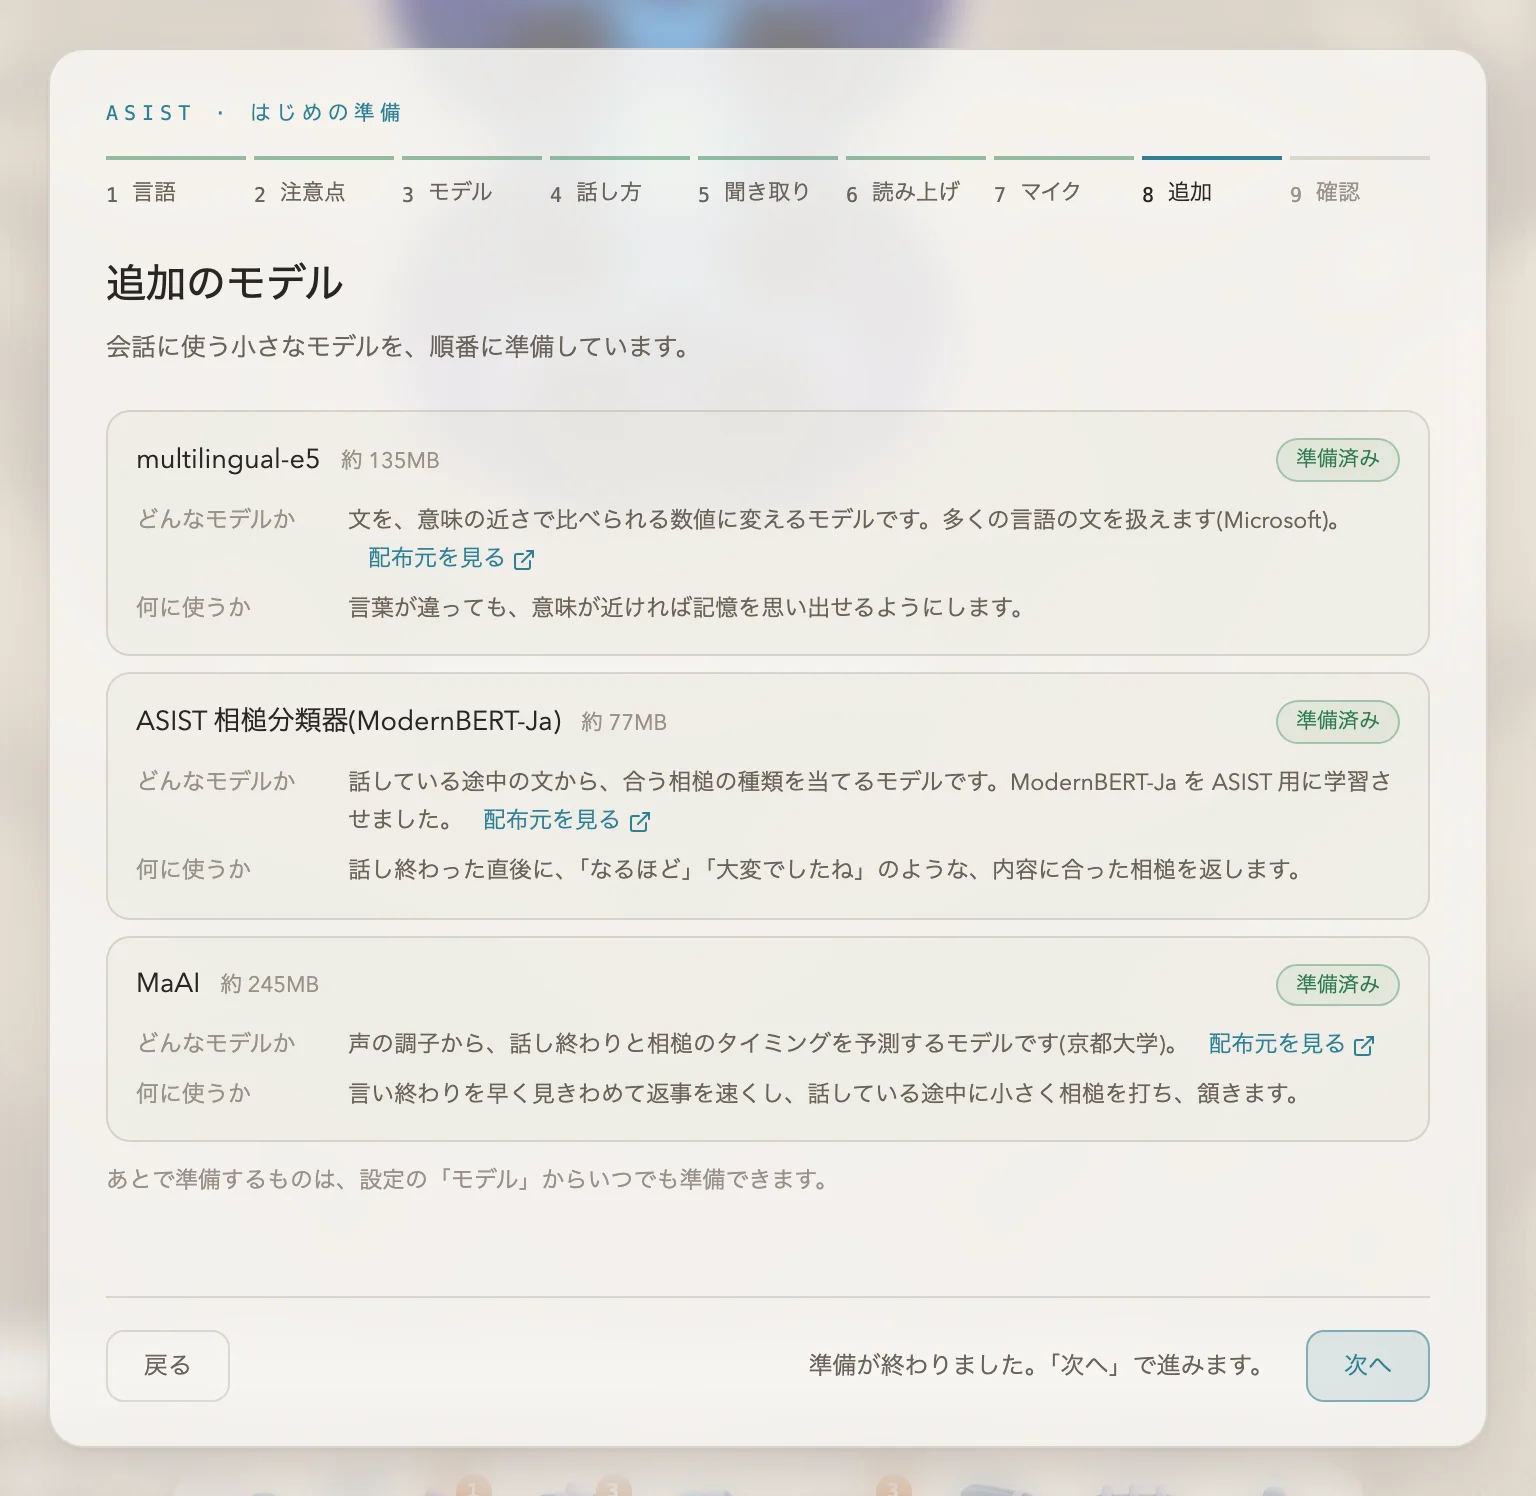
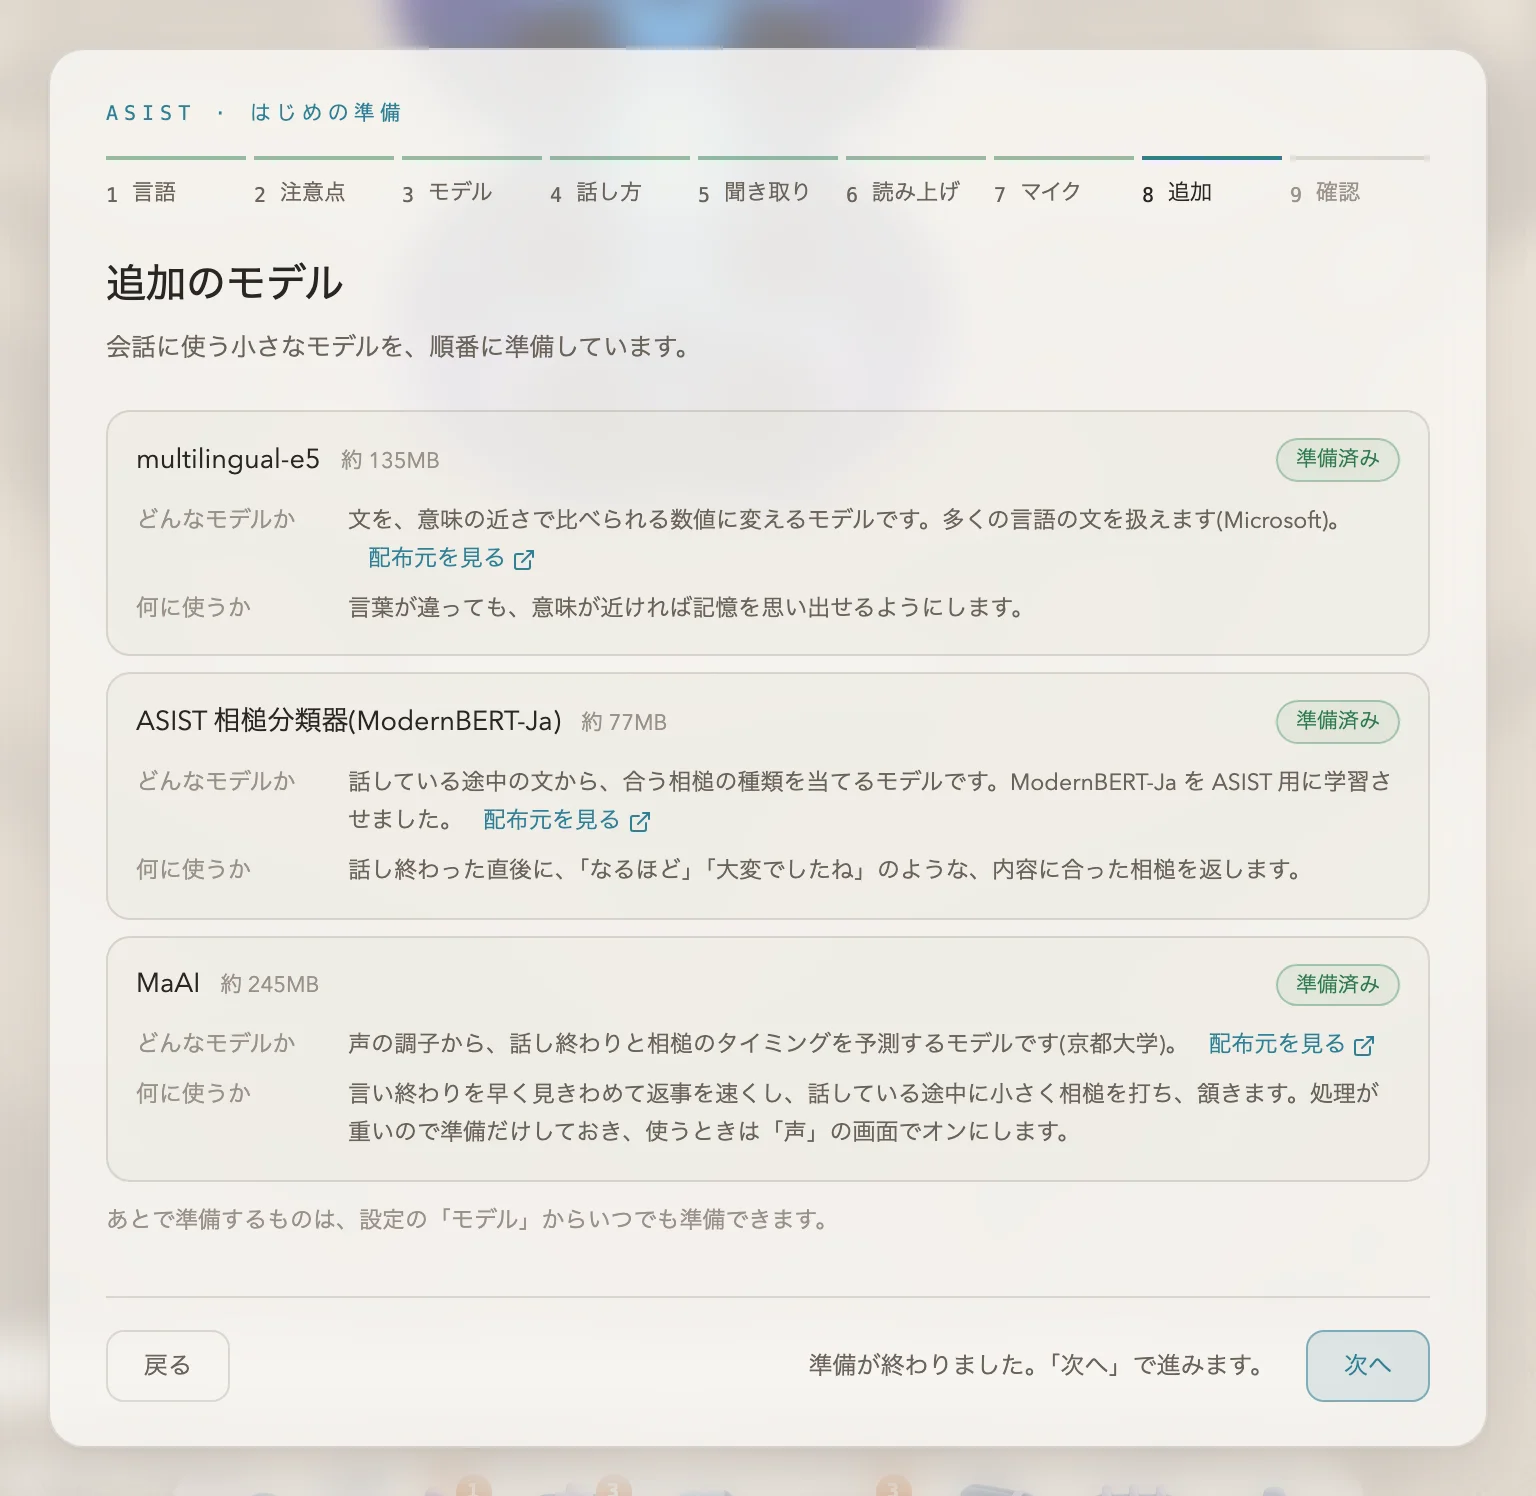
Prepare MaAI during setup but leave turn-taking off until the user turns it on
On a 16 GB M2, MaAI running on the CPU throughout the conversation slowed Qwen3-TTS below real time
and replies stuttered; with MaAI off they played smoothly. The setup still downloads MaAI with the other
extras, so it only takes the switch on the Voice page, but no longer turns it on. The setup text and the
setup page of the documentation say so, and decision record 0027 keeps why.

Changed region(s): [[0.0625, 0.738, 0.6875, 0.8302], [0.8438, 0.7072, 0.9062, 0.738]]

diff --git a/src/shared/i18n/messages/setup.ts b/src/shared/i18n/messages/setup.ts
@@ -2199,17 +2199,17 @@ export const setup = defineMessages({
           'es-ES': 'Predice el final de tu turno y el momento de los asentimientos a partir del sonido de tu voz (Universidad de Kioto).'
         },
         purpose: {
-          'ja-JP': '言い終わりを早く見きわめて返事を速くし、話している途中に小さく相槌を打ち、頷きます。',
-          'en-US': 'Detects the end of speech early so replies come sooner, and adds quiet backchannels and nods.',
-          'fr-FR': 'Repère tôt la fin de la parole pour répondre plus vite, et ajoute de discrets acquiescements et des hochements de tête.',
-          'de-DE': 'Erkennt das Ende der Äußerung früh, damit Antworten schneller kommen, und fügt leise Hörersignale und Nicken hinzu.',
-          'hi-IN': 'बोलने का खत्म होना जल्दी पहचानकर जवाब जल्दी लाता है, और बीच-बीच में धीरे से हुंकारे भरता तथा सिर हिलाता है।',
-          'id-ID': 'Mendeteksi akhir bicara lebih awal supaya jawaban datang lebih cepat, lalu menambahkan gumaman pelan dan anggukan.',
-          'it-IT': 'Riconosce presto la fine del parlato, così le risposte arrivano prima, e aggiunge cenni sommessi e assensi.',
-          'ko-KR': '말이 끝나는 지점을 빨리 알아내 대답을 빠르게 하고, 말하는 도중에 작게 맞장구를 치고 고개를 끄덕입니다.',
-          'pt-BR': 'Detecta cedo o fim da fala, para as respostas virem antes, e acrescenta sinais de escuta baixinhos e acenos de cabeça.',
-          'es-419': 'Detecta pronto el fin del habla para que las respuestas lleguen antes, y agrega asentimientos bajitos y gestos de asentir.',
-          'es-ES': 'Detecta pronto el final del habla para que las respuestas lleguen antes, y añade asentimientos bajitos y gestos de asentir.'
+          'ja-JP': '言い終わりを早く見きわめて返事を速くし、話している途中に小さく相槌を打ち、頷きます。処理が重いので準備だけしておき、使うときは「声」の画面でオンにします。',
+          'en-US': 'Detects the end of speech early so replies come sooner, and adds quiet backchannels and nods. It takes a lot of processing, so it is prepared but left off; turn it on on the Voice page to use it.',
+          'fr-FR': "Repère tôt la fin de la parole pour répondre plus vite, et ajoute de discrets acquiescements et des hochements de tête. Comme il demande beaucoup de calcul, il est seulement préparé et reste désactivé ; activez-le sur la page Voix pour l'utiliser.",
+          'de-DE': 'Erkennt das Ende der Äußerung früh, damit Antworten schneller kommen, und fügt leise Hörersignale und Nicken hinzu. Da es viel Rechenleistung braucht, wird es nur vorbereitet und bleibt ausgeschaltet; schalten Sie es auf der Seite „Stimme“ ein, um es zu verwenden.',
+          'hi-IN': 'बोलने का खत्म होना जल्दी पहचानकर जवाब जल्दी लाता है, और बीच-बीच में धीरे से हुंकारे भरता तथा सिर हिलाता है। यह भारी है, इसलिए इसे सिर्फ़ तैयार करके बंद रखा जाता है; इस्तेमाल करने के लिए "आवाज़" पेज पर इसे चालू करें।',
+          'id-ID': 'Mendeteksi akhir bicara lebih awal supaya jawaban datang lebih cepat, lalu menambahkan gumaman pelan dan anggukan. Karena pemrosesannya berat, fitur ini hanya disiapkan dan tetap nonaktif; aktifkan di halaman Suara untuk memakainya.',
+          'it-IT': 'Riconosce presto la fine del parlato, così le risposte arrivano prima, e aggiunge cenni sommessi e assensi. Poiché richiede molta elaborazione, viene solo preparato e resta disattivato; attivalo nella pagina «Voce» per usarlo.',
+          'ko-KR': "말이 끝나는 지점을 빨리 알아내 대답을 빠르게 하고, 말하는 도중에 작게 맞장구를 치고 고개를 끄덕입니다. 처리가 무거워서 준비만 해 두고 꺼 둡니다. 쓰려면 '음성' 화면에서 켭니다.",
+          'pt-BR': 'Detecta cedo o fim da fala, para as respostas virem antes, e acrescenta sinais de escuta baixinhos e acenos de cabeça. Como exige muito processamento, ele só é preparado e fica desligado; ligue-o na página Voz para usar.',
+          'es-419': 'Detecta pronto el fin del habla para que las respuestas lleguen antes, y agrega asentimientos bajitos y gestos de asentir. Como requiere mucho procesamiento, solo se prepara y queda desactivado; actívalo en la página Voz para usarlo.',
+          'es-ES': 'Detecta pronto el final del habla para que las respuestas lleguen antes, y añade asentimientos bajitos y gestos de asentir. Como requiere mucho procesamiento, solo se prepara y queda desactivado; actívalo en la página “Voz” para usarlo.'
         }
       }
     },

diff --git a/tests/setup-wizard.test.ts b/tests/setup-wizard.test.ts
@@ -260,6 +260,27 @@ describe('first-run setup', () => {
     expect(extraNames()).toEqual([t('setup.extras.models.embedding.label'), t('setup.extras.models.modernbert.label'), t('setup.extras.models.maai.label')])
   })
 
+  it('prepares MaAI with the other extras but leaves it off, while the semantic search it prepared is turned on', async () => {
+    status = { ...status, asr: true }
+    await render()
+    const t = createTranslator('ja-JP')
+    await toModel(t)
+    await verifyKey(t)
+    await press(t('setup.next'))
+    await press(t('setup.speaking.voice.title'))
+    await press(t('setup.next'))
+    await press(t('setup.next'))
+    await press(t('settings.ttsEngine.system.macos'))
+    await press(t('setup.next'))
+    await press(t('setup.mic.check'))
+    await press(t('setup.next'))
+    // The next button opens once every extra has been prepared and, where it applies, turned on.
+    await vi.waitFor(() => expect(button(t('setup.next')).disabled).toBe(false))
+    expect(api.vapStatus).toHaveBeenCalled()
+    expect(api.saveSettings).toHaveBeenCalledWith({ memoryEmbeddingEnabled: true })
+    expect(api.saveSettings.mock.calls.some(([patch]) => 'vapEnabled' in patch)).toBe(false)
+  })
+
   it('offers the macOS voice alone and prepares only the search model when the conversation is not in Japanese', async () => {
     status = { ...status, asr: true }
     await render()

diff --git a/src/renderer/src/ui/setup/extras.ts b/src/renderer/src/ui/setup/extras.ts
@@ -67,7 +67,9 @@ const RUNNERS: Record<ExtraModel['id'], { installed: () => Promise<boolean>; pre
       return status.runtimeInstalled && status.modelsInstalled
     },
     prepare: () => window.api.vapPrepare(),
-    enable: () => window.api.saveSettings({ vapEnabled: true })
+    // MaAI runs on the CPU for the whole conversation, and on a 16 GB M2 it slowed Qwen3-TTS below real
+    // time so that replies stuttered (measured 2026-09-28). It is prepared here and turned on only by the user.
+    enable: async () => undefined
   }
 }
 

diff --git a/docs/adr/0027-setup-prepares-maai-but-leaves-it-off.md b/docs/adr/0027-setup-prepares-maai-but-leaves-it-off.md
@@ -1,0 +1,16 @@
+# 初回セットアップは MaAI を準備するだけで、オンにするのは利用者に任せる
+
+日本語で声で話す人の初回セットアップでは、MaAI のモデルを取得して準備しておくが、ターンテイキングの設定はオフのままにする。使いたい人が「声」の画面でオンにする。MaAI は会話のあいだ CPU で動き続けるので、Apple M2 のようなマシンでは Qwen3-TTS と CPU を取り合い、読み上げの声が途切れる。MaAI が無くても会話はできるが、声が途切れると会話が聞き取りにくくなる。準備まで済ませておけば、スイッチを入れるだけで使えるので、245MB の取得は初回セットアップで済ませる。
+
+## 見送った案
+
+- **初回セットアップで準備もしない。** 使いたくなったときに、設定の「モデル」で取得を待つことになる。
+- **速いマシンでだけオンにする。** どのマシンから取り合いが起きないかは、測って線を引く必要がある。
+
+## 実測
+
+2026-09-28、M2 16GB の Mac で、Qwen3-TTS を単独で動かすと、1秒分の声を作るのに 0.53〜0.54 秒かかり、再生は途切れなかった。アプリの中で MaAI と一緒に動かすと、MaAI の処理の速さの比が 1.27〜1.55 まで上がり、読み上げが途切れた。MaAI をオフにすると途切れなくなった。
+
+## 分かっている制約
+
+- すでに MaAI をオンにしている利用者の設定は変えない。
